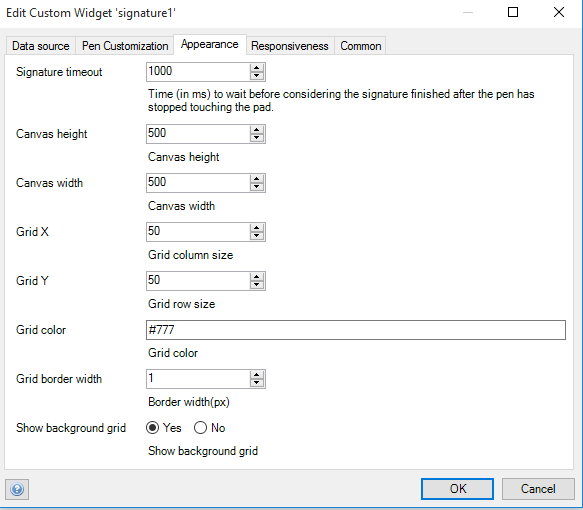
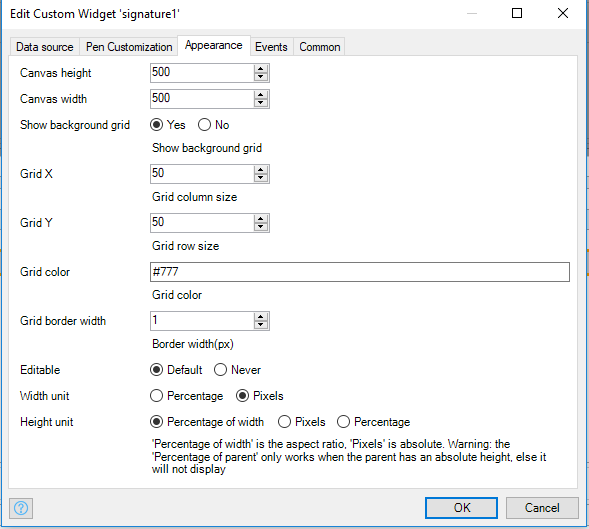
update read me

Changed region(s): [[0.0, 0.0, 1.0, 1.0], [0.8645, 0.0, 0.8954, 0.0588]]

diff --git a/README.md b/README.md
@@ -24,20 +24,32 @@ Add the widget to a dataview. Connect the data URL property to an unlimited Stri
 
 ### Appearance configuration
 ![Data source](/assets/Home.PNG)
-- This is where you select the attribute which is to hold the sigature string. The attribute must be an unlimited string.
+- This is where you select the attribute which is to hold the signature string. The attribute must be an unlimited string.
 
 ![Data source](/assets/penCustomization.PNG)
 - In the pen customization, this is where you can customize your own pen size, the pen color, the maximum and minimum pen width and the velocity pressure.
 
 ![Data source](/assets/appear.PNG)
-- The signature timeout can be set from here(time before the signature is saved to an image) and both the responsive and responsive ratio.
-- The canvas height and width can aslo be customised from here
+- The canvas height and width can also be customized from here
 - Whether to show the grid background or not, size of the x and y axis of the grid, color of the grid and the grid border size can all be customized from here.
+-A client can decide to set his/her signature pad as either default to make it editable or never which makes it non editable. 
+- the grid color is set from here too depending on the clients' wish.
+- Grid border width is too set from this portion
+- width unit has two values that is percentage or pixels
+- height unit has three values, percentage of width pixels and then percentage.
+
+![Data source](/assets/Events.PNG)
+Under this section, this is where different actions are undertaken when an event for example an onclick event happens.
+- When a microflow is selected, then on an onclick action is triggered, a microflow will be executed.
+In the same way for the Nanoflow, onclick and it is selected, a nanoflow will be executed.
+- If the client selects one of the four options that are stated under the on click section, then the selected option will be executed else, an error message will show up.
+- On Lose focus the image will be saved either automatically when save on change is selected or it will be saved using the save button when the save on form commit option is selected. 
+
 
 ### Properties
 * **Pen color** - HTML color code of the pen.
 * **Signature timeout** - Amount of milliseconds the widget will wait after the user has stopped writing before saving the signature.
-* **Canvast height** - Height of writable area in pixels.
+* **Canvas height** - Height of writable area in pixels.
 * **Canvas width** - Width of writable area in pixels.
 * **Show background grid** - When set to yes, a grid is shown in the background of the writable area.
 * **Grid X** - The distance in pixels between gridlines in the horizontal direction.
@@ -51,4 +63,4 @@ Add the widget to a dataview. Connect the data URL property to an unlimited Stri
 
 ## Compatibility
 The widget is usable and works smoothly in Google chrome, Internet explorer. 
-In Firefox by setting dom.w3c_pointer_events.enabled to “true” in about:config you can get to use the widget.(Thats if initially it wasnt working)
+In Firefox by setting dom.w3c_pointer_events.enabled to “true” in about:config you can get to use the widget.(Thats if initially it was not working)
